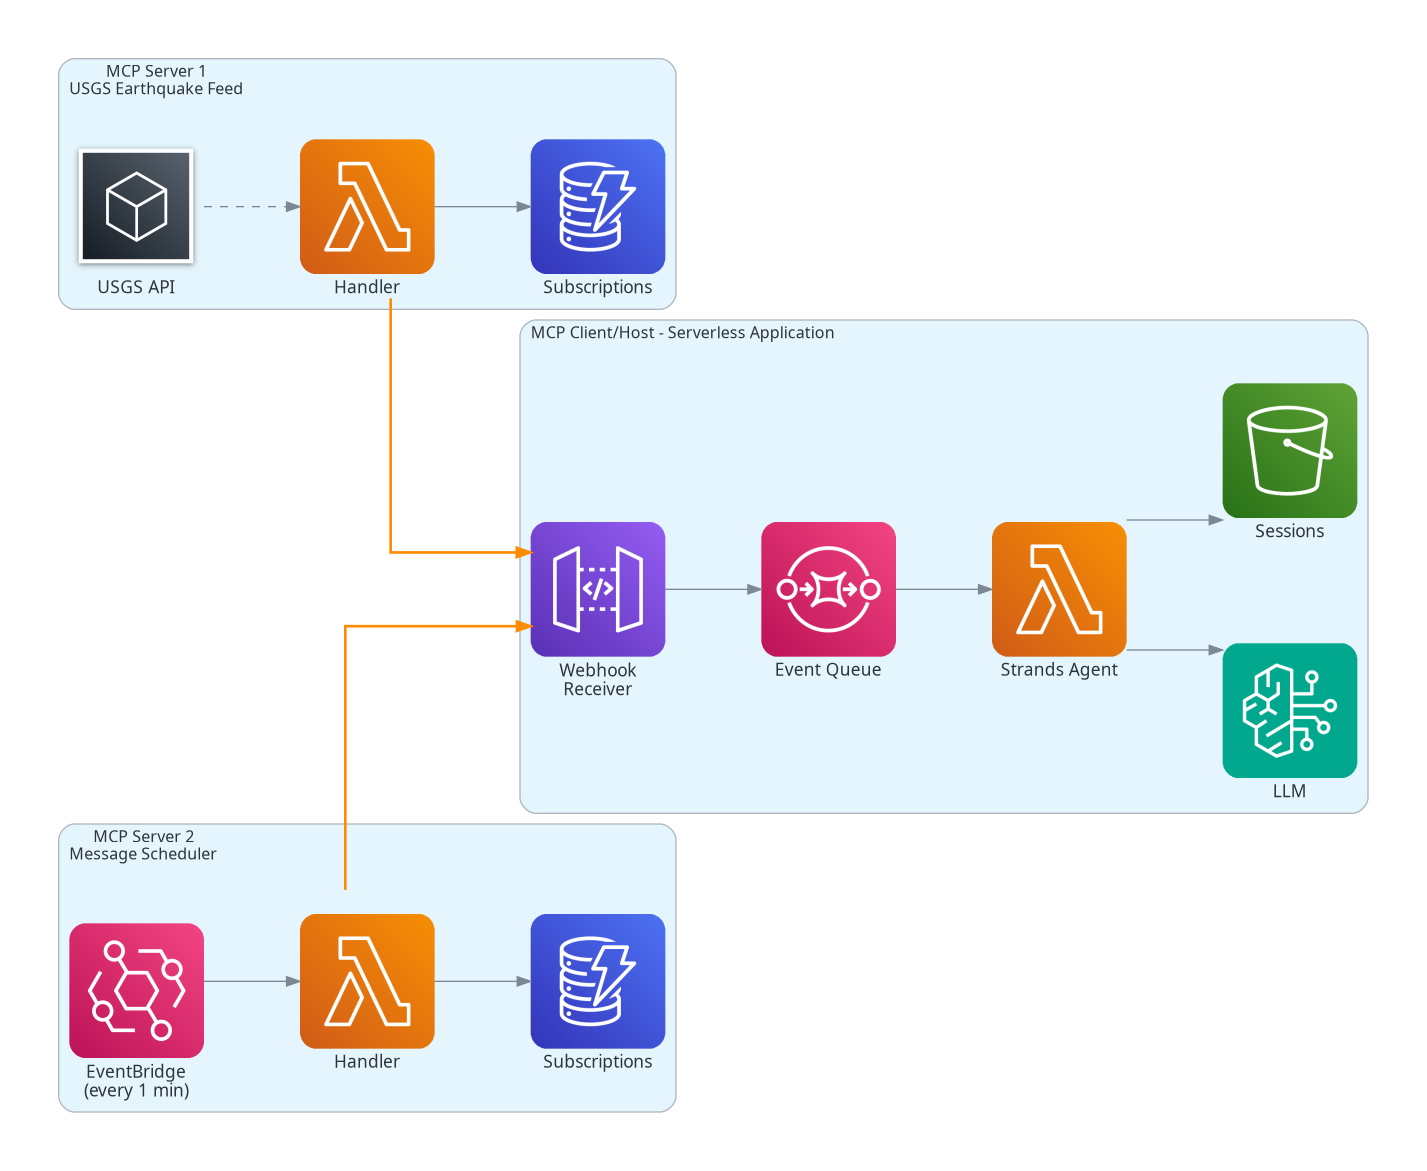
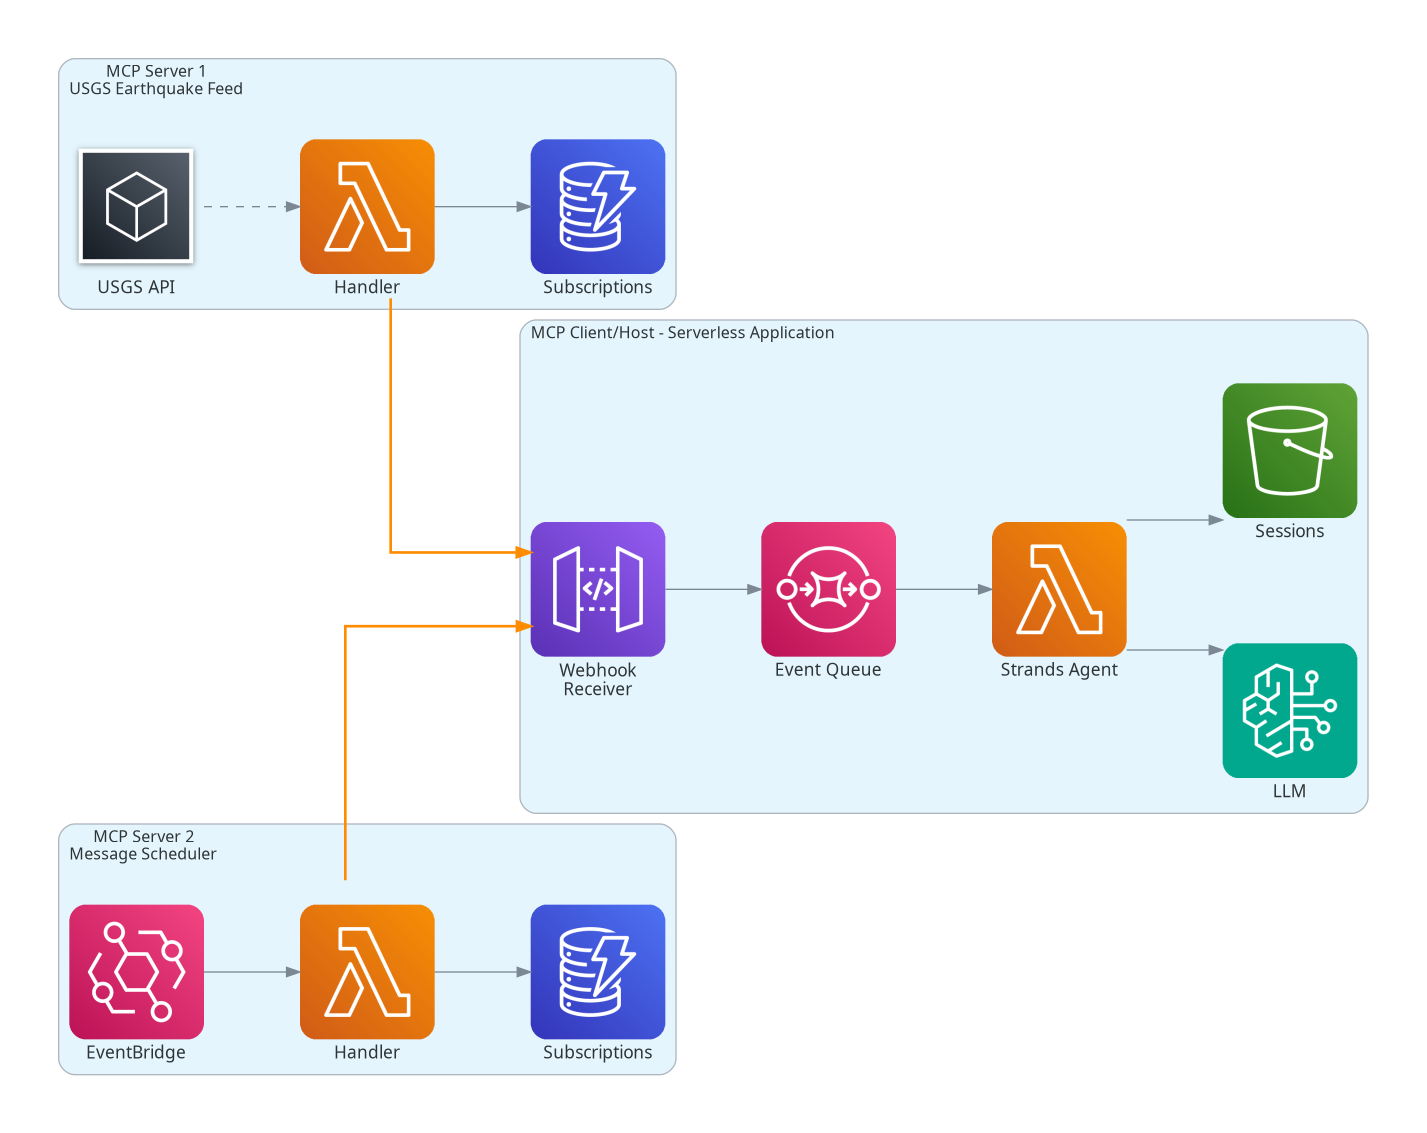
Change scheduler EventBridge rate from 1 min to 15 min
With interval-based scheduling (minimum 4 hours), checking every minute
is wasteful. 15 minutes is plenty responsive.

diff --git a/packages/cdk/lib/scheduler-server-stack.ts b/packages/cdk/lib/scheduler-server-stack.ts
@@ -60,7 +60,7 @@ export class SchedulerServerStack extends cdk.Stack {
       kmsKeyDescription:
         "Client-side encryption key for per-subscription webhook secrets in the Scheduler server Subscriptions table",
       kmsAlias: "alias/earthquake-agent/scheduler-subscription-secret",
-      scheduleRate: cdk.Duration.minutes(1),
+      scheduleRate: cdk.Duration.minutes(15),
       scheduleDescription:
         "Triggers MCP Server 2 to check which customers are due for a briefing every 1 minute",
       exportPrefix: "SchedulerMcp",

diff --git a/generate-diagrams.py b/generate-diagrams.py
@@ -38,7 +38,7 @@ with Diagram(
         s1_ddb = Dynamodb("Subscriptions")
 
     with Cluster("MCP Server 2\nMessage Scheduler"):
-        s2_eb = Eventbridge("EventBridge\n(every 1 min)")
+        s2_eb = Eventbridge("EventBridge")
         s2_lambda = Lambda("Handler")
         s2_ddb = Dynamodb("Subscriptions")
 
